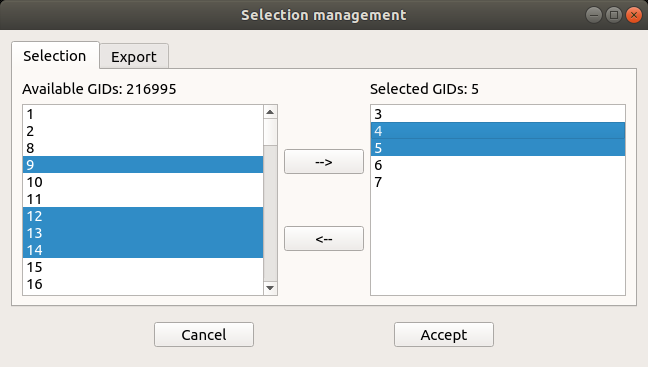
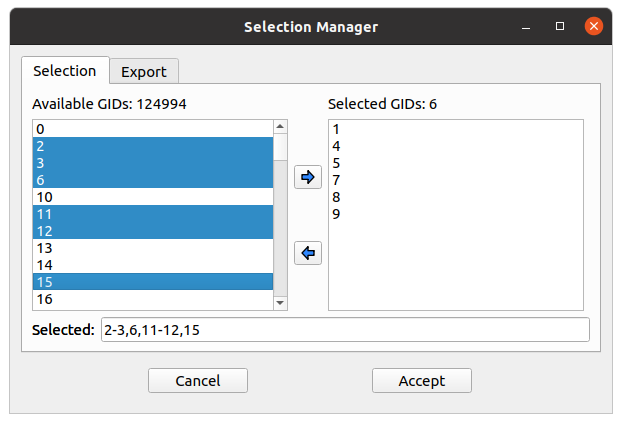
Version 1.5.2. Selection manager update.

diff --git a/source/conf.py b/source/conf.py
@@ -24,7 +24,7 @@ author = 'Sergio E. Galindo & Félix de las Pozas Álvarez'
 # The short X.Y version
 version = ''
 # The full version, including alpha/beta/rc tags
-release = '1.5.1'
+release = '1.5.2'
 
 # -- General configuration ---------------------------------------------------
 
@@ -88,7 +88,7 @@ latex_maketitle = r'''
 \begin{center}
   \includegraphics[width=6cm,height=6cm]{visimpl-icon-square.png}\\[8ex]
   {\Huge SimPart \& StackViz Documentation}\\[4ex]
-  {\Large Version 1.5.1}\\[4ex]
+  {\Large Version 1.5.2}\\[4ex]
   {\Large Sergio E. Galindo \& F\'{e}lix de las Pozas \'{A}lvarez}\\[4ex]
   {\Large March 2022}\\[16ex]
   {\Large Visualization \& Graphics Lab, Universidad Rey Juan Carlos}\\[4ex]

diff --git a/source/01-Introduction.rst b/source/01-Introduction.rst
@@ -9,7 +9,7 @@ After decades of independent morphological and functional brain research, a key 
 
 In such context we present **ViSimpl**, which integrates a set of visualization and interaction tools that provide a semantic view of brain data with the aim of improving its analysis procedures. ViSimpl provides 3D particle--based rendering that allows visualizing simulation data with their associated spatial and temporal information, enhancing the knowledge extraction process. It also provides abstract representations of the time--varying magnitudes supporting different data aggregation and disaggregation operations and giving also focus and context clues. In addition, ViSimpl tools provide synchronized playback control of the simulation being analyzed. Finally, ViSimpl allows performing selection and filtering operations in association with NeuroScheme application. All these views are loosely coupled and can be used independently, but they can also work together, both in centralized and distributed computing environments, as linked views enhancing the data exploration and analysis procedures.
 
-This documentation is for ViSimpl version 1.5.1 that can be obtained from the homepage.
+This documentation is for ViSimpl version 1.5.2 that can be obtained from the homepage.
 
 ---------------------
 Hardware requirements
@@ -127,14 +127,14 @@ Executing both applications from docker:
 
   xhost +local:docker
   # Pull the image.
-  docker pull vglab/visimpl:1.5.1-nvidia-ubuntu-16.04
+  docker pull vglab/visimpl:1.5.2-nvidia-ubuntu-16.04
   # Download example data
   mkdir data
   cd data
   # Download a test dataset or move test files to data directory.
   cd ..
   # Run example
-  docker run --gpus 1 -ti --rm -e DISPLAY -v /tmp/.X11-unix:/tmp/.X11-unix -v /etc/machine-id:/etc/machine-id -v $(pwd)/data:/data --privileged vglab/visimpl:1.5.1-nvidia-ubuntu-16.04 /usr/bin/visimpl.sh
+  docker run --gpus 1 -ti --rm -e DISPLAY -v /tmp/.X11-unix:/tmp/.X11-unix -v /etc/machine-id:/etc/machine-id -v $(pwd)/data:/data --privileged vglab/visimpl:1.5.2-nvidia-ubuntu-16.04 /usr/bin/visimpl.sh
 
 To execute **SimPart** only the user must use the **/usr/bin/simpart.sh** call, and to execute **StackViz** follow the same steps but use **/usr/bin/stackviz.sh** in the docker call. All scripts supports the parameters specified in the previous table with the exception of **--testFile** parameter as is only available in SimPart.
 
@@ -146,9 +146,9 @@ To test the applications in a docker enviroment:
 
   xhost +local:docker
   # Pull the image.
-  docker pull vglab/visimpl:1.5.1-nvidia-ubuntu-16.04
+  docker pull vglab/visimpl:1.5.2-nvidia-ubuntu-16.04
   # Run bash inside docker
-  docker run --gpus 1 -ti --rm -e DISPLAY -v /tmp/.X11-unix:/tmp/.X11-unix -v /etc/machine-id:/etc/machine-id -v $(pwd)/data:/data --privileged vglab/visimpl:1.5.1-nvidia-ubuntu-16.04 bash
+  docker run --gpus 1 -ti --rm -e DISPLAY -v /tmp/.X11-unix:/tmp/.X11-unix -v /etc/machine-id:/etc/machine-id -v $(pwd)/data:/data --privileged vglab/visimpl:1.5.2-nvidia-ubuntu-16.04 bash
   # Executing inside the container
   simpart.sh --testFile &
   # With the test file generated and loaded in SimPart, execute StackViz with the dataset.

diff --git a/source/02-ViSimplUserInterface.rst b/source/02-ViSimplUserInterface.rst
@@ -170,12 +170,14 @@ In the "Selection" tab it can be found a button [...] to open the selection mana
 .. figure:: images/VSImage006.png
    :alt: Selection management.
    :align: center
-   :width: 648
-   :scale: 55%
+   :width: 622
+   :scale: 60%
 
    Selection management dialog.
 
-Elements can be added or removed from the selection list by clicking on the buttons indicating the respective direction (<-- and -->). Both lists accept advanced selection mode i.e. managing selection through Ctrl and Shift keys for range and addition/subtraction selecting. Once the selection has the desired elements it can be saved to a file on the "Export" tab and use it as the current selection by clicking on "Accept".  
+Elements can be added or removed from the selection list by clicking on the buttons indicating the respective direction (right to include and left to exclude from the selection). Both lists accept advanced selection mode i.e. managing selection through Ctrl and Shift keys for range and addition/subtraction selecting. Once the selection has the desired elements it can be saved to a file on the "Export" tab and use it as the current selection by clicking on "Accept".  
+
+In the **Selection** tab the text field at the bottom of the dialog shows the currently selected values or ranges of values in the available list. The user can enter the ranges in that field manually by separating them by commas. 
 
 When creating a selection the application will ask for a group name. The name can be later edited, if needed, in the selection groups tab by clicking in the group name. The created selection will appear with the name and size in the selection tab with a default color. There, clicking in the associated gradient widget, the selection color can be modified the same way as before with the transfer function edition dialog (:numref:`figF1`).
 

diff --git a/source/05-Runbook.rst b/source/05-Runbook.rst
@@ -126,7 +126,7 @@ In the '**Selection**' panel click the selection button (next to the 'add group'
 .. figure:: images/RBimage008.png
    :alt: Selection manager dialog. 
    :align: center
-   :width: 661
+   :width: 622
    :scale: 80%
 
    Selection manager dialog. 
